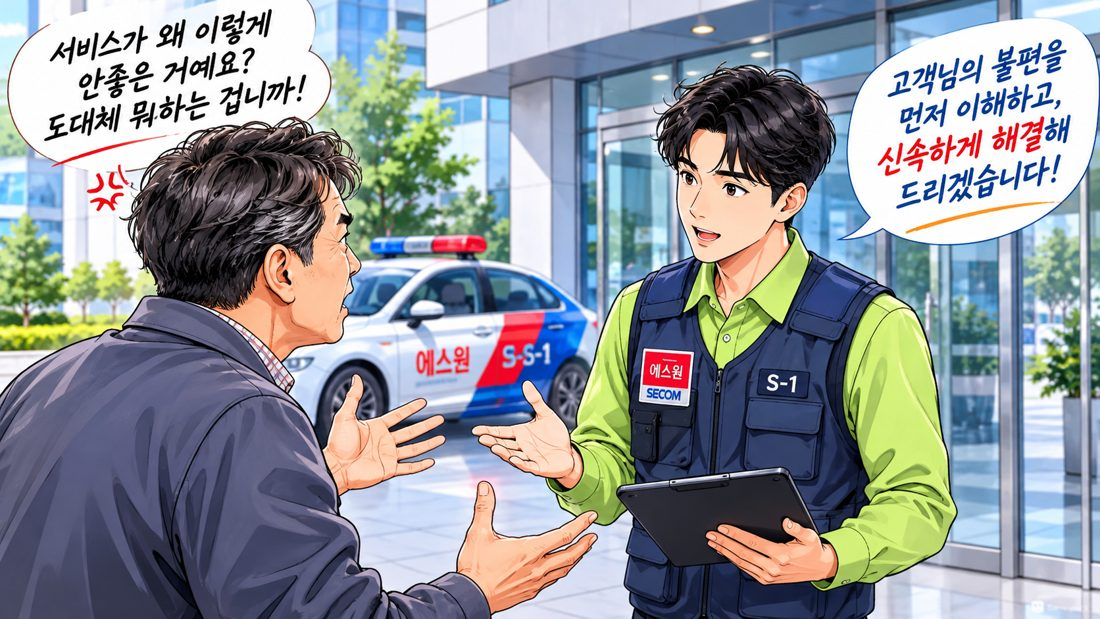
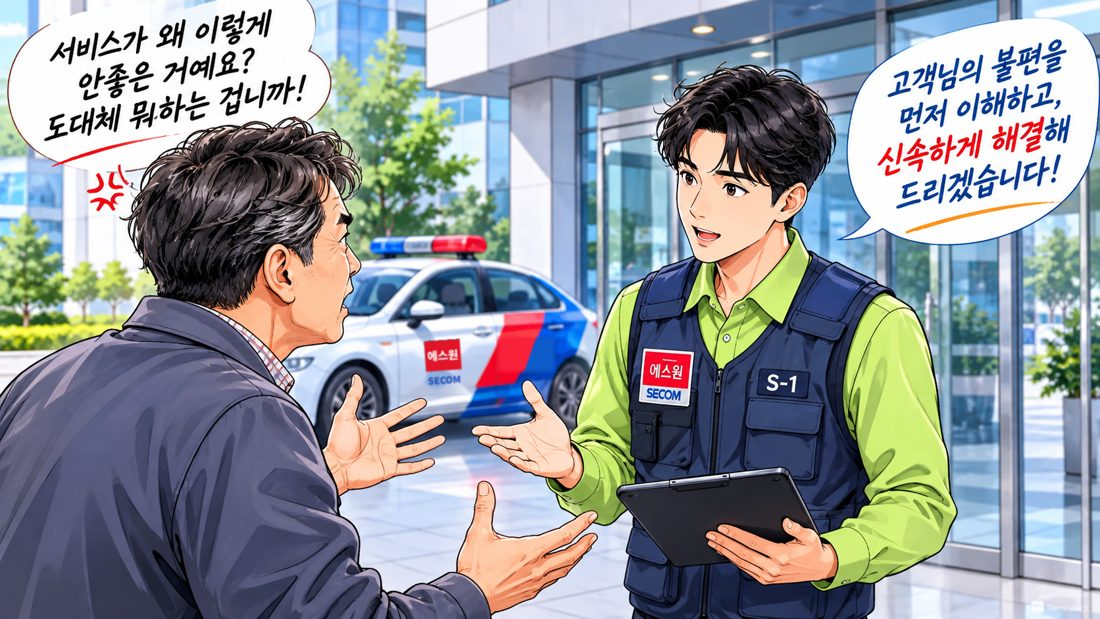
AI 응대 연습 그림: 차량 표시 수정(S-S-1 글자 제거, 에스원·SECOM 로고)
Claude-Session: https://claude.ai/code/session_01CYrUzg71PWvvhPCa1B7qmF

Changed region(s): [[0.3709, 0.5218, 0.5255, 0.6446]]

diff --git a/roleplay.html b/roleplay.html
@@ -150,7 +150,7 @@ function home(){
   if(!ME){ app.innerHTML='<div class="card"><h2>이름을 먼저 골라 주세요</h2><p class="sub">북서울 Report 첫 화면에서 이름을 고른 뒤 다시 들어오면 돼요.</p><button class="btn red block" id="gor">리포트로 돌아가기</button></div>'; $("#gor").onclick=goReport; return; }
   var h = GUEST ? '<div class="demo">👀 연습은 자유롭게 할 수 있어요. 이름을 고르지 않아 <b>점수는 기록에 남지 않아요.</b></div>' : '';
   h += RP_API ? "" : '<div class="demo">🧪 <b>데모 모드</b> — AI 연결 전이라 미리 정해 둔 고객 대사와 간단 채점으로 동작해요. 흐름을 미리 써 볼 수 있어요.</div>';
-  h = '<div class="hero"><img src="roleplay-bg.jpg" alt="화난 고객에게 공감하며 응대하는 에스원 직원 그림"></div>' + h;
+  h = '<div class="hero"><img src="roleplay-bg.jpg?v=2" alt="화난 고객에게 공감하며 응대하는 에스원 직원 그림"></div>' + h;
   h += '<div class="card"><h2>어떤 상황을 연습할까요?</h2><p class="sub">AI가 까다로운 고객이 되어 말을 걸어요. 소리로 대답해 보세요. 모두 가상 상황이라 <b>실제 고객 이름·번호는 말하지 않아도 돼요.</b></p>'+
     '<b style="font-size:13px">난이도</b><div class="seg" id="lv">'+["하","중","상"].map(function(l){return '<button type="button" data-l="'+l+'" aria-pressed="'+(S.lv===l)+'">'+l+'</button>';}).join("")+'</div></div>';
   var row=function(c,i){ var l=getLast(c); return '<button type="button" class="sc" data-i="'+i+'"><i>'+c.ic+'</i><div><b>'+esc(c.title)+'<span class="tag '+c.lv+'">추천 '+c.lv+'</span></b><span>'+(l?'지난 점수 '+l.t+'점':'아직 연습 전')+'</span></div></button>'; };
